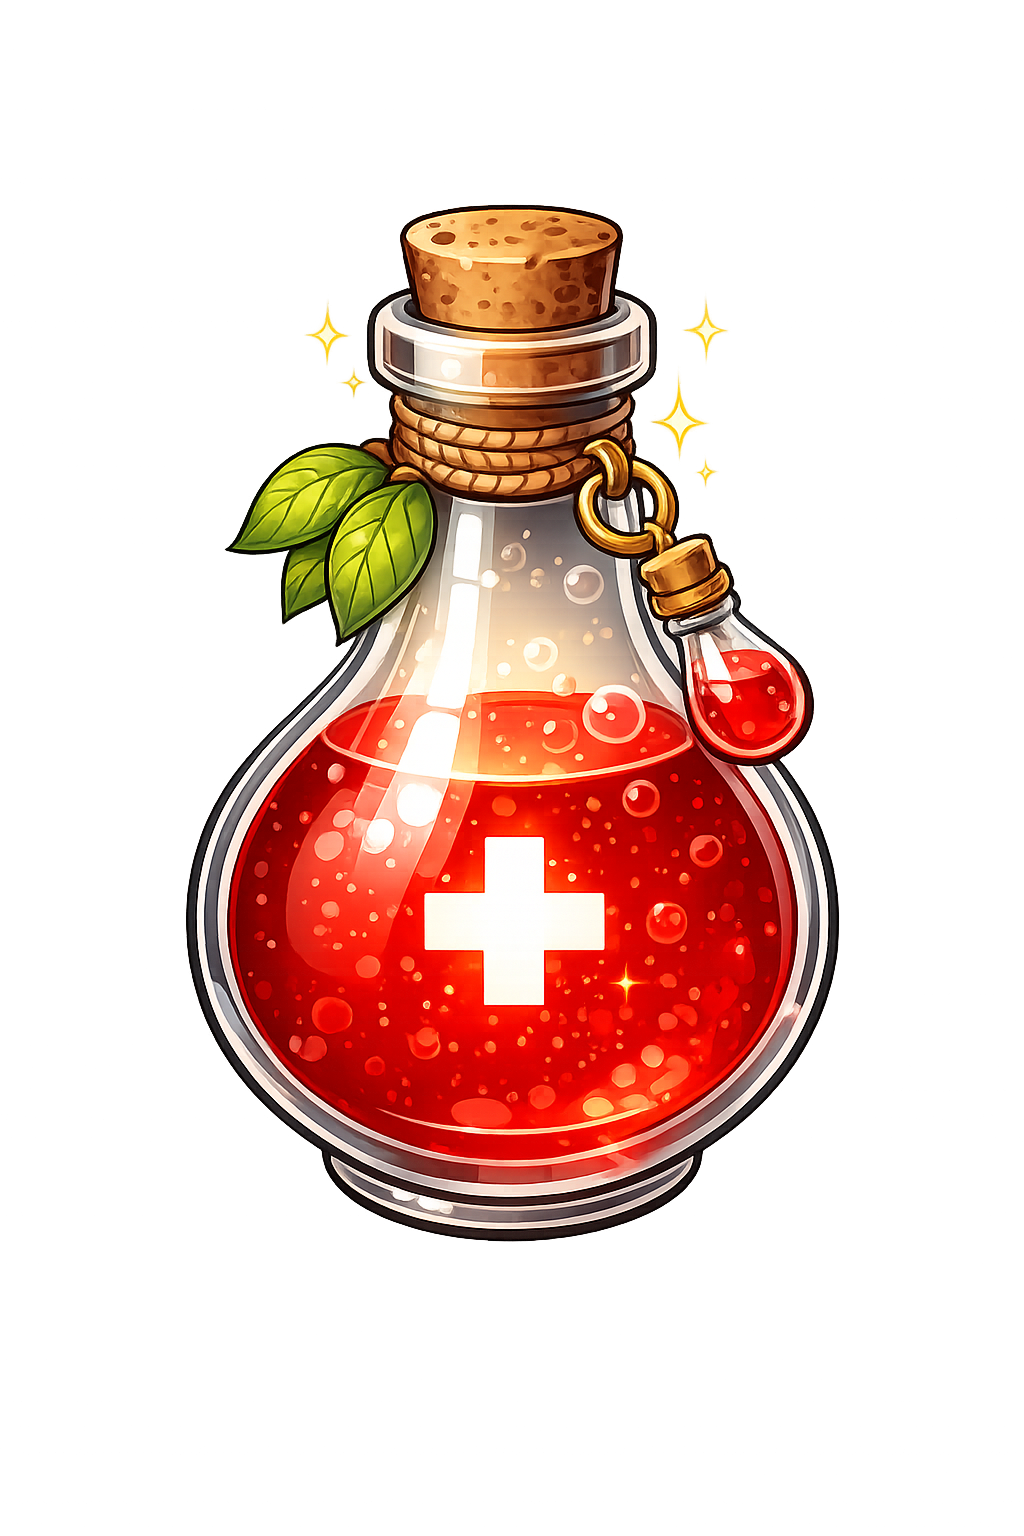
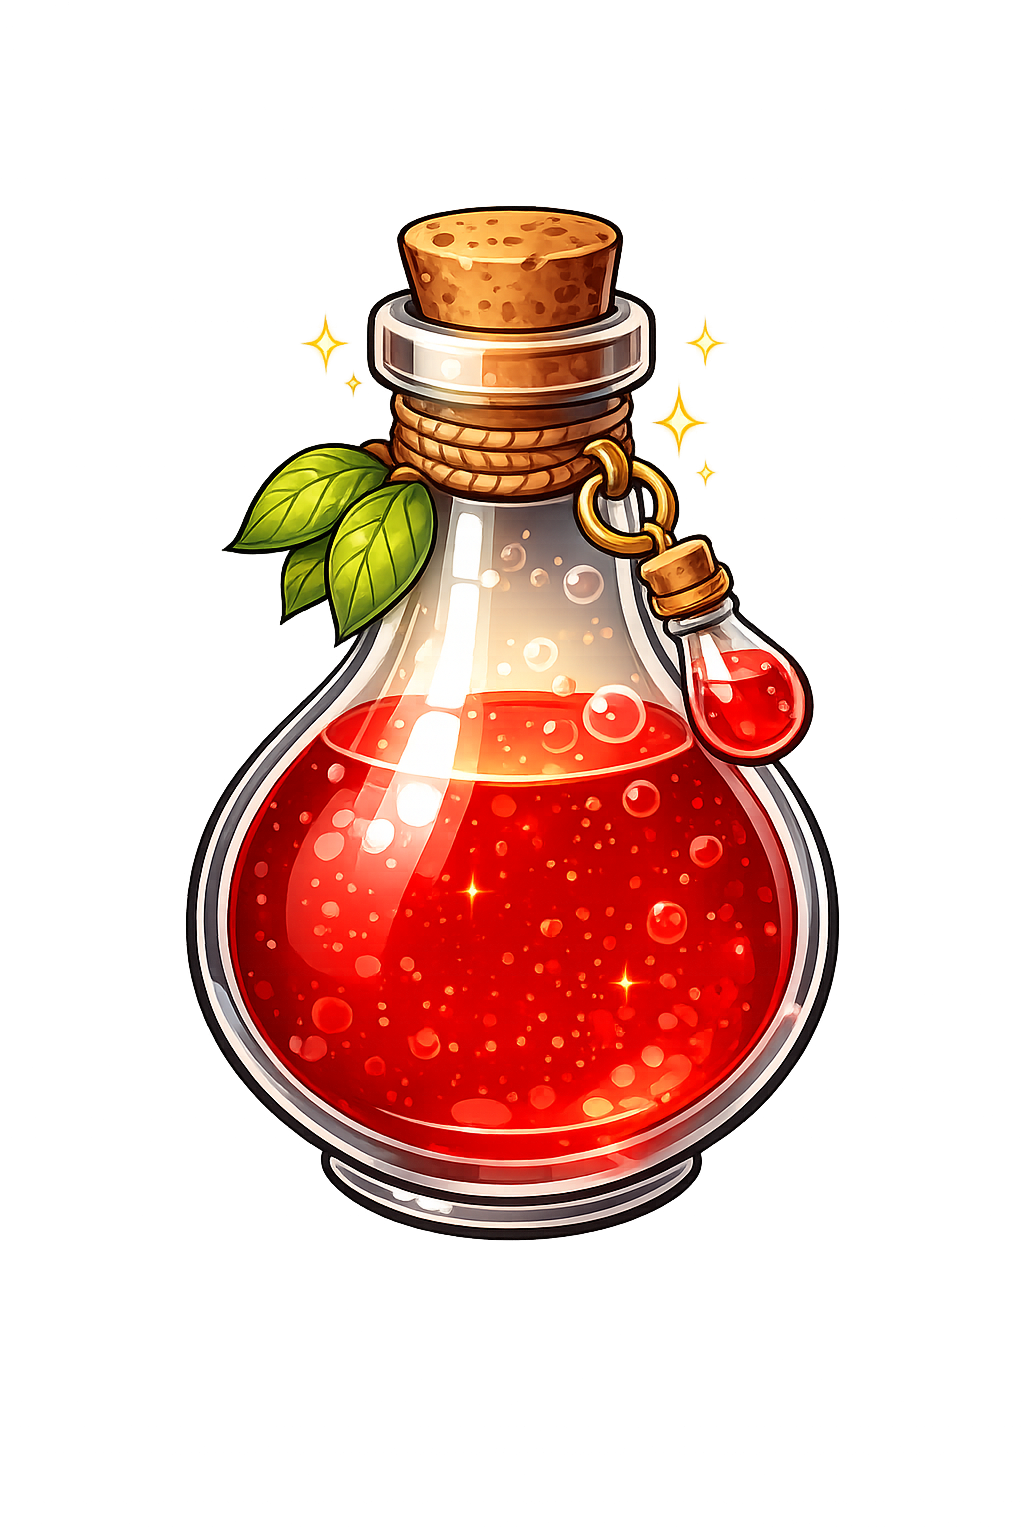
Ajout des affichgaes d'images sur la page principale
modifications mineures esthétiques

diff --git a/css/style.css b/css/style.css
@@ -1,4 +1,5 @@
 body{
+    margin: 20px 0 0 0;
     display: flex;
     flex-direction: column;
     height: auto;
@@ -11,12 +12,13 @@ body{
 nav {
     position: fixed;
     display: flex;
-    background: rgba(255, 255, 255, .1);
+    background: rgb(255 255 255 / 0.08);
     border-radius: 20px;
     backdrop-filter: blur(8px);
     justify-content: center;
     left: 5%;
     right: 5%;
+    flex-wrap: wrap;
 
     height: 50px;
     text-align: center;
@@ -45,7 +47,7 @@ nav a i {
 }
 
 nav a i:hover {
-    transform: scale(110%) translateY(5%);
+    transform: scale(110%) translateY(-5%);
 }
 
 .flaticon-spellbook {
@@ -82,4 +84,51 @@ section {
     font-size: 5em;
     justify-content: center;
     align-items: center;
+}
+
+/*Element d'affichage de certains objets*/
+
+.cards {
+    display: flex;
+    margin: 0;
+    padding: 10px;
+    flex-direction: column;
+    align-items: center;
+    justify-content: space-around;
+    flex-wrap: wrap;
+    gap: 15px;
+}
+
+.card {
+    padding: 0;
+    margin: 0;
+    border-radius: 15px;
+    justify-content: center;
+    text-align: center;
+
+    background: rgb(202 210 255 / 0.3);
+}
+
+#potion-health {
+    width: auto;
+    height: 50%;
+    align-items: center;
+    justify-content: center;
+}
+
+#magic-parchment {
+    width: auto;
+    height: 50%;
+    align-items: center
+}
+
+#frozen-parchment {
+    width: auto;
+    height: 75%;
+    align-items: center
+}
+
+footer {
+    font-family: 'Pixelify Sans', sans-serif;
+    color: white;
 }

diff --git a/index.html b/index.html
@@ -32,11 +32,21 @@
         </header>
 
         <section>
-            <span id="title-home"><strong>Bienvenu sur le premier site d'achat d'objets magiques en ligne ! </strong></span>
+            <span id="title-home"><strong>Bienvenue sur le premier site d'achat d'objets magiques en ligne ! </strong></span>
         </section>
-        <section>
-            <span>La confrérie des kobolds néglige toute responsabilité à l'égard des mauvais usages de ce que vous trouverez ici...</span>
+        <section class="cards">
+            <div class="card">
+                <img id="potion-health" src="assets/Potion_soin_asset.png" height="1536" width="1024"/>
+            </div>
+            <div class="card">
+                <img id="magic-parchment" src="assets/Parchemin_magique_asset.png" height="1536" width="1024"/>
+            </div>
+             <div class="card">
+                <img id="frozen-parchment" src="assets/Parchemin_givre_asset.png" height="1024" width="1024"/>
+             </div>
         </section>
-        <footer></footer>
+        <footer>
+            <span>La confrérie des kobolds néglige toutes responsabilités à l'égard des mauvais usages de ce que vous trouverez ici...</span>
+        </footer>
     </body>
 </html>

diff --git a/READ ME.md b/READ ME.md
@@ -2,4 +2,10 @@ Projet site d'achat en ligne vitrine
 
 Mettre des objets magiques à l'intérieur
 
+
 Permet de travailler toutes les composantes principales de la triade html/css/js
+
+To DO list : 
+- terminer de faire les cartes d'items sur la page d'accueil
+- remplir les autres pages avec du contenu 
+- rrajouter un contenu dans le footer